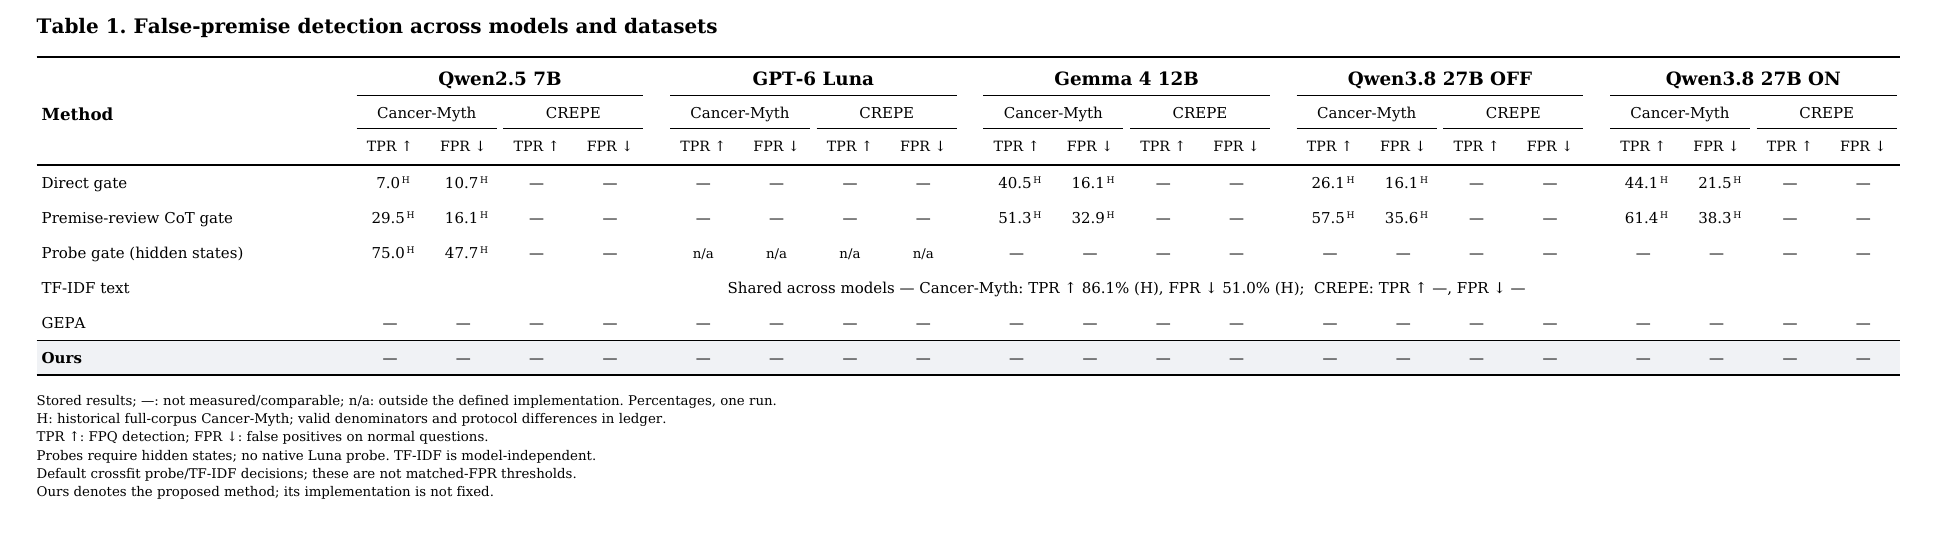
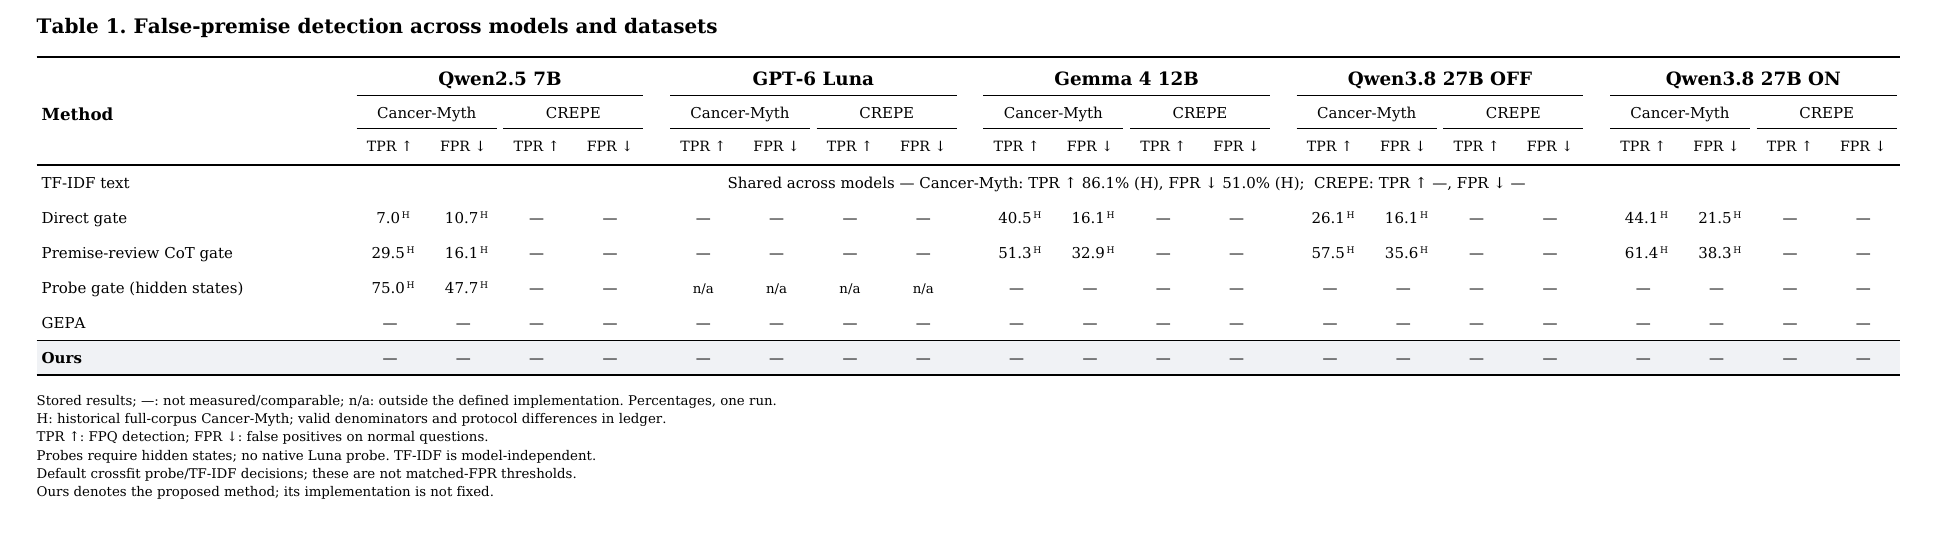
Put TF-IDF first in both comparison tables

diff --git a/docs/reviews/paper_tables_2026-10-06/table2.tex b/docs/reviews/paper_tables_2026-10-06/table2.tex
@@ -10,6 +10,7 @@
  & \multicolumn{2}{c}{Cancer-Myth} & \multicolumn{2}{c}{CREPE} & \multicolumn{1}{c}{MedQA} & \multicolumn{1}{c}{PubMedQA} & \multicolumn{1}{c}{Medbullets} & \multicolumn{1}{c}{MMLU} & \multicolumn{1}{c}{GSM8K} & \multicolumn{2}{c}{Cancer-Myth} & \multicolumn{2}{c}{CREPE} & \multicolumn{1}{c}{MedQA} & \multicolumn{1}{c}{PubMedQA} & \multicolumn{1}{c}{Medbullets} & \multicolumn{1}{c}{MMLU} & \multicolumn{1}{c}{GSM8K} & \multicolumn{2}{c}{Cancer-Myth} & \multicolumn{2}{c}{CREPE} & \multicolumn{1}{c}{MedQA} & \multicolumn{1}{c}{PubMedQA} & \multicolumn{1}{c}{Medbullets} & \multicolumn{1}{c}{MMLU} & \multicolumn{1}{c}{GSM8K} & \multicolumn{2}{c}{Cancer-Myth} & \multicolumn{2}{c}{CREPE} & \multicolumn{1}{c}{MedQA} & \multicolumn{1}{c}{PubMedQA} & \multicolumn{1}{c}{Medbullets} & \multicolumn{1}{c}{MMLU} & \multicolumn{1}{c}{GSM8K} & \multicolumn{2}{c}{Cancer-Myth} & \multicolumn{2}{c}{CREPE} & \multicolumn{1}{c}{MedQA} & \multicolumn{1}{c}{PubMedQA} & \multicolumn{1}{c}{Medbullets} & \multicolumn{1}{c}{MMLU} & \multicolumn{1}{c}{GSM8K} \\
  & FPQ $\uparrow$ & NFP $\uparrow$ & FPQ $\uparrow$ & TPQ $\uparrow$ & Acc. $\uparrow$ & Acc. $\uparrow$ & Acc. $\uparrow$ & Acc. $\uparrow$ & EM $\uparrow$ & FPQ $\uparrow$ & NFP $\uparrow$ & FPQ $\uparrow$ & TPQ $\uparrow$ & Acc. $\uparrow$ & Acc. $\uparrow$ & Acc. $\uparrow$ & Acc. $\uparrow$ & EM $\uparrow$ & FPQ $\uparrow$ & NFP $\uparrow$ & FPQ $\uparrow$ & TPQ $\uparrow$ & Acc. $\uparrow$ & Acc. $\uparrow$ & Acc. $\uparrow$ & Acc. $\uparrow$ & EM $\uparrow$ & FPQ $\uparrow$ & NFP $\uparrow$ & FPQ $\uparrow$ & TPQ $\uparrow$ & Acc. $\uparrow$ & Acc. $\uparrow$ & Acc. $\uparrow$ & Acc. $\uparrow$ & EM $\uparrow$ & FPQ $\uparrow$ & NFP $\uparrow$ & FPQ $\uparrow$ & TPQ $\uparrow$ & Acc. $\uparrow$ & Acc. $\uparrow$ & Acc. $\uparrow$ & Acc. $\uparrow$ & EM $\uparrow$ \\
 \midrule
+TF-IDF text gate & 50.7\textsuperscript{H} & 60.4\textsuperscript{H} & \textemdash & \textemdash & \textemdash & \textemdash & \textemdash & \textemdash & \textemdash & \textemdash & \textemdash & \textemdash & \textemdash & \textemdash & \textemdash & \textemdash & \textemdash & \textemdash & 63.8\textsuperscript{H} & 50.3\textsuperscript{H} & \textemdash & \textemdash & \textemdash & \textemdash & \textemdash & \textemdash & \textemdash & 68.3\textsuperscript{H} & 49.0\textsuperscript{H} & \textemdash & \textemdash & \textemdash & \textemdash & \textemdash & \textemdash & \textemdash & 78.2\textsuperscript{H} & 48.3\textsuperscript{H} & \textemdash & \textemdash & \textemdash & \textemdash & \textemdash & \textemdash & \textemdash \\
 Plain & 2.4\textsuperscript{H} & 100.0\textsuperscript{H} & \textemdash & \textemdash & \textemdash & \textemdash & \textemdash & \textemdash & \textemdash & 54.5\textsuperscript{L} & 91.0\textsuperscript{L} & 72.7\textsuperscript{R} & 98.9\textsuperscript{R} & \textemdash & \textemdash & \textemdash & \textemdash & \textemdash & 4.3\textsuperscript{H} & 100.0\textsuperscript{H} & \textemdash & \textemdash & \textemdash & \textemdash & \textemdash & \textemdash & \textemdash & 49.7\textsuperscript{H} & 79.9\textsuperscript{H} & \textemdash & \textemdash & \textemdash & \textemdash & \textemdash & \textemdash & \textemdash & 40.7\textsuperscript{H} & 88.6\textsuperscript{H} & \textemdash & \textemdash & \textemdash & \textemdash & \textemdash & \textemdash & \textemdash \\
 CoT & 0.7\textsuperscript{H} & 99.3\textsuperscript{H} & \textemdash & \textemdash & \textemdash & \textemdash & \textemdash & \textemdash & \textemdash & \textemdash & \textemdash & \textemdash & \textemdash & \textemdash & \textemdash & \textemdash & \textemdash & \textemdash & 3.4\textsuperscript{H} & 99.3\textsuperscript{H} & \textemdash & \textemdash & \textemdash & \textemdash & \textemdash & \textemdash & \textemdash & 54.7\textsuperscript{H} & 71.1\textsuperscript{H} & \textemdash & \textemdash & \textemdash & \textemdash & \textemdash & \textemdash & \textemdash & 43.1\textsuperscript{H} & 87.9\textsuperscript{H} & \textemdash & \textemdash & \textemdash & \textemdash & \textemdash & \textemdash & \textemdash \\
 Balanced instruction & \textemdash & \textemdash & \textemdash & \textemdash & \textemdash & \textemdash & \textemdash & \textemdash & \textemdash & \textemdash & \textemdash & \textemdash & \textemdash & \textemdash & \textemdash & \textemdash & \textemdash & \textemdash & \textemdash & \textemdash & \textemdash & \textemdash & \textemdash & \textemdash & \textemdash & \textemdash & \textemdash & \textemdash & \textemdash & \textemdash & \textemdash & \textemdash & \textemdash & \textemdash & \textemdash & \textemdash & \textemdash & \textemdash & \textemdash & \textemdash & \textemdash & \textemdash & \textemdash & \textemdash & \textemdash \\
@@ -19,7 +20,6 @@ PreWoMe-style & \textemdash & \textemdash & \textemdash & \textemdash & \textemd
 Extract + Verify & \textemdash & \textemdash & \textemdash & \textemdash & \textemdash & \textemdash & \textemdash & \textemdash & \textemdash & 87.9\textsuperscript{L} & 48.0\textsuperscript{L} & \textemdash & \textemdash & \textemdash & \textemdash & \textemdash & \textemdash & \textemdash & \textemdash & \textemdash & \textemdash & \textemdash & \textemdash & \textemdash & \textemdash & \textemdash & \textemdash & \textemdash & \textemdash & \textemdash & \textemdash & \textemdash & \textemdash & \textemdash & \textemdash & \textemdash & \textemdash & \textemdash & \textemdash & \textemdash & \textemdash & \textemdash & \textemdash & \textemdash & \textemdash \\
 Direct-gated response & 6.9\textsuperscript{H} & 90.6\textsuperscript{H} & \textemdash & \textemdash & \textemdash & \textemdash & \textemdash & \textemdash & \textemdash & \textemdash & \textemdash & \textemdash & \textemdash & \textemdash & \textemdash & \textemdash & \textemdash & \textemdash & 37.2\textsuperscript{H} & 83.9\textsuperscript{H} & \textemdash & \textemdash & \textemdash & \textemdash & \textemdash & \textemdash & \textemdash & 53.0\textsuperscript{H} & 72.5\textsuperscript{H} & \textemdash & \textemdash & \textemdash & \textemdash & \textemdash & \textemdash & \textemdash & 53.5\textsuperscript{H} & 75.8\textsuperscript{H} & \textemdash & \textemdash & \textemdash & \textemdash & \textemdash & \textemdash & \textemdash \\
 Premise-review gated response & 21.3\textsuperscript{H} & 85.9\textsuperscript{H} & \textemdash & \textemdash & \textemdash & \textemdash & \textemdash & \textemdash & \textemdash & \textemdash & \textemdash & \textemdash & \textemdash & \textemdash & \textemdash & \textemdash & \textemdash & \textemdash & 43.4\textsuperscript{H} & 67.1\textsuperscript{H} & \textemdash & \textemdash & \textemdash & \textemdash & \textemdash & \textemdash & \textemdash & 62.1\textsuperscript{H} & 59.7\textsuperscript{H} & \textemdash & \textemdash & \textemdash & \textemdash & \textemdash & \textemdash & \textemdash & 62.1\textsuperscript{H} & 60.4\textsuperscript{H} & \textemdash & \textemdash & \textemdash & \textemdash & \textemdash & \textemdash & \textemdash \\
-TF-IDF text gate & 50.7\textsuperscript{H} & 60.4\textsuperscript{H} & \textemdash & \textemdash & \textemdash & \textemdash & \textemdash & \textemdash & \textemdash & \textemdash & \textemdash & \textemdash & \textemdash & \textemdash & \textemdash & \textemdash & \textemdash & \textemdash & 63.8\textsuperscript{H} & 50.3\textsuperscript{H} & \textemdash & \textemdash & \textemdash & \textemdash & \textemdash & \textemdash & \textemdash & 68.3\textsuperscript{H} & 49.0\textsuperscript{H} & \textemdash & \textemdash & \textemdash & \textemdash & \textemdash & \textemdash & \textemdash & 78.2\textsuperscript{H} & 48.3\textsuperscript{H} & \textemdash & \textemdash & \textemdash & \textemdash & \textemdash & \textemdash & \textemdash \\
 Probe-gated response & 44.8\textsuperscript{H} & 64.4\textsuperscript{H} & \textemdash & \textemdash & \textemdash & \textemdash & \textemdash & \textemdash & \textemdash & n/a & n/a & n/a & n/a & n/a & n/a & n/a & n/a & n/a & \textemdash & \textemdash & \textemdash & \textemdash & \textemdash & \textemdash & \textemdash & \textemdash & \textemdash & \textemdash & \textemdash & \textemdash & \textemdash & \textemdash & \textemdash & \textemdash & \textemdash & \textemdash & \textemdash & \textemdash & \textemdash & \textemdash & \textemdash & \textemdash & \textemdash & \textemdash & \textemdash \\
 GEPA & \textemdash & \textemdash & \textemdash & \textemdash & \textemdash & \textemdash & \textemdash & \textemdash & \textemdash & 78.8\textsuperscript{L} & 72.0\textsuperscript{L} & 74.7\textsuperscript{R} & 98.0\textsuperscript{R} & \textemdash & \textemdash & \textemdash & \textemdash & \textemdash & \textemdash & \textemdash & \textemdash & \textemdash & \textemdash & \textemdash & \textemdash & \textemdash & \textemdash & \textemdash & \textemdash & \textemdash & \textemdash & \textemdash & \textemdash & \textemdash & \textemdash & \textemdash & \textemdash & \textemdash & \textemdash & \textemdash & \textemdash & \textemdash & \textemdash & \textemdash & \textemdash \\
 \midrule

diff --git a/docs/reviews/paper_tables_2026-10-06/table1.tex b/docs/reviews/paper_tables_2026-10-06/table1.tex
@@ -10,10 +10,10 @@
  & \multicolumn{2}{c}{Cancer-Myth} & \multicolumn{2}{c}{CREPE} & \multicolumn{2}{c}{Cancer-Myth} & \multicolumn{2}{c}{CREPE} & \multicolumn{2}{c}{Cancer-Myth} & \multicolumn{2}{c}{CREPE} & \multicolumn{2}{c}{Cancer-Myth} & \multicolumn{2}{c}{CREPE} & \multicolumn{2}{c}{Cancer-Myth} & \multicolumn{2}{c}{CREPE} \\
  & TPR $\uparrow$ & FPR $\downarrow$ & TPR $\uparrow$ & FPR $\downarrow$ & TPR $\uparrow$ & FPR $\downarrow$ & TPR $\uparrow$ & FPR $\downarrow$ & TPR $\uparrow$ & FPR $\downarrow$ & TPR $\uparrow$ & FPR $\downarrow$ & TPR $\uparrow$ & FPR $\downarrow$ & TPR $\uparrow$ & FPR $\downarrow$ & TPR $\uparrow$ & FPR $\downarrow$ & TPR $\uparrow$ & FPR $\downarrow$ \\
 \midrule
+TF-IDF text & \multicolumn{20}{c}{Shared across models \textemdash Cancer-Myth: TPR $\uparrow$ 86.1\% (H), FPR $\downarrow$ 51.0\% (H);  CREPE: TPR $\uparrow$ \textemdash, FPR $\downarrow$ \textemdash} \\
 Direct gate & 7.0\textsuperscript{H} & 10.7\textsuperscript{H} & \textemdash & \textemdash & \textemdash & \textemdash & \textemdash & \textemdash & 40.5\textsuperscript{H} & 16.1\textsuperscript{H} & \textemdash & \textemdash & 26.1\textsuperscript{H} & 16.1\textsuperscript{H} & \textemdash & \textemdash & 44.1\textsuperscript{H} & 21.5\textsuperscript{H} & \textemdash & \textemdash \\
 Premise-review CoT gate & 29.5\textsuperscript{H} & 16.1\textsuperscript{H} & \textemdash & \textemdash & \textemdash & \textemdash & \textemdash & \textemdash & 51.3\textsuperscript{H} & 32.9\textsuperscript{H} & \textemdash & \textemdash & 57.5\textsuperscript{H} & 35.6\textsuperscript{H} & \textemdash & \textemdash & 61.4\textsuperscript{H} & 38.3\textsuperscript{H} & \textemdash & \textemdash \\
 Probe gate (hidden states) & 75.0\textsuperscript{H} & 47.7\textsuperscript{H} & \textemdash & \textemdash & n/a & n/a & n/a & n/a & \textemdash & \textemdash & \textemdash & \textemdash & \textemdash & \textemdash & \textemdash & \textemdash & \textemdash & \textemdash & \textemdash & \textemdash \\
-TF-IDF text & \multicolumn{20}{c}{Shared across models \textemdash Cancer-Myth: TPR $\uparrow$ 86.1\% (H), FPR $\downarrow$ 51.0\% (H);  CREPE: TPR $\uparrow$ \textemdash, FPR $\downarrow$ \textemdash} \\
 GEPA & \textemdash & \textemdash & \textemdash & \textemdash & \textemdash & \textemdash & \textemdash & \textemdash & \textemdash & \textemdash & \textemdash & \textemdash & \textemdash & \textemdash & \textemdash & \textemdash & \textemdash & \textemdash & \textemdash & \textemdash \\
 \midrule
 \textbf{Ours} & \textemdash & \textemdash & \textemdash & \textemdash & \textemdash & \textemdash & \textemdash & \textemdash & \textemdash & \textemdash & \textemdash & \textemdash & \textemdash & \textemdash & \textemdash & \textemdash & \textemdash & \textemdash & \textemdash & \textemdash \\

diff --git a/docs/reviews/paper_tables_2026-10-06/README.md b/docs/reviews/paper_tables_2026-10-06/README.md
@@ -20,6 +20,8 @@ Ours의 구체 구현은 미정이다. [GEPA·SAE 상세 계획](../gepa_sae_det
 
 ## 기존 비교 방법과 배치
 
+두 표 모두 TF-IDF를 첫 번째 방법 행에 둔다. 질문을 바로 주고 거짓 전제 유무만 묻는 판정은 `Direct gate`, 그 판정으로 답변 경로를 선택한 결과는 `Direct-gated response`로 표기한다. `Plain`은 별도 교정 지시 없이 답변하는 조건이므로 `Plain gate`라는 이름은 쓰지 않는다.
+
 | 방법군 | Table 1: Detection | Table 2: Response | 역할 |
 |---|---|---|---|
 | 직접 판정 | Direct gate | Direct-gated response | 명시적인 LLM 판단으로 답변 경로 선택 |
